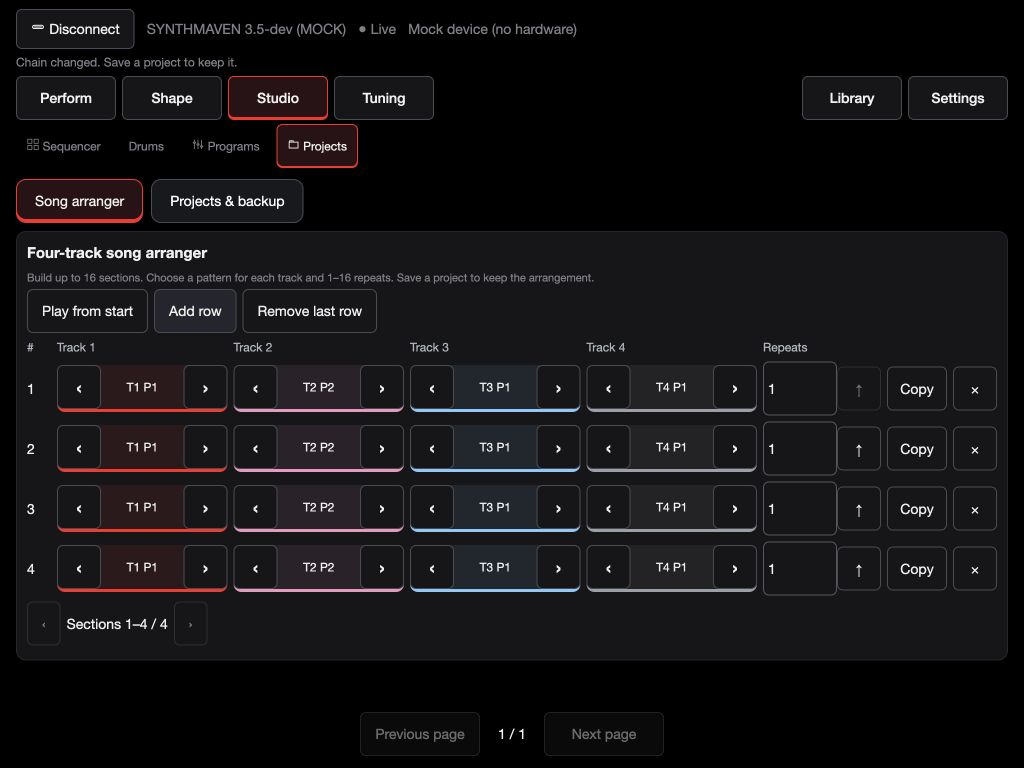
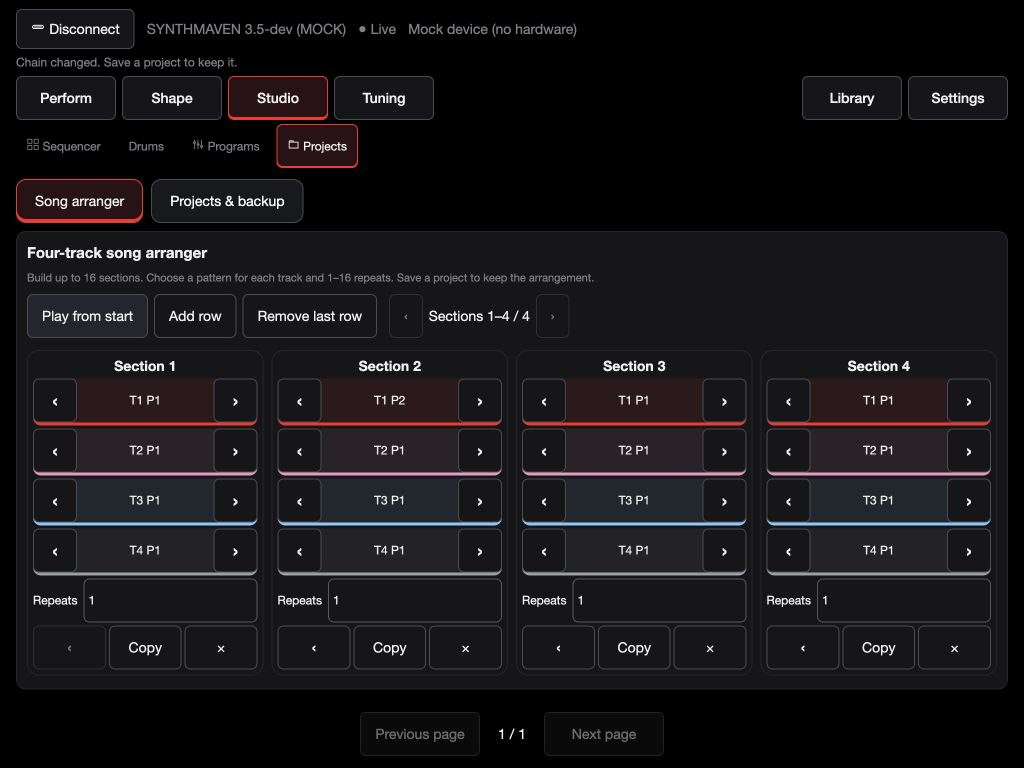
Expose four melodic lanes and song timeline in both editors

Changed region(s): [[0.0, 0.375, 1.0, 0.9062], [0.0312, 0.375, 0.2188, 0.4688], [0.4062, 0.4062, 0.5312, 0.4688]]

diff --git a/web/editor.html b/web/editor.html
@@ -468,6 +468,37 @@ body[data-screen=tracks] #trackbar{display:none}.strip input.fader{height:110px}
 .song-track-2{border-color:#f1a0c8;background:#f1a0c818}.song-track-3{border-color:#93cffa;background:#93cffa18}.song-track-4{border-color:#a5a9b2;background:#a5a9b218}
 .song-track select{min-width:0;width:100%;padding:4px;border:0;background:transparent;pointer-events:none;appearance:none;text-align:center}
 .song-track .cycle-choice{width:100%;min-width:0;grid-template-columns:44px minmax(0,1fr) 44px}.song-track .cycle-choice output{padding:2px;font-size:12px}.song-track button{min-width:44px;padding:4px}.song-section button,.song-section input{min-height:44px;padding:4px}.song-active{outline:2px solid #fff;border-radius:8px}.song-heading{font-size:12px;color:#b9bdc6}
+
+/* Four melodic lanes and a left-to-right song timeline. */
+#stepgrid{display:flex;flex-direction:column;gap:5px}
+.sequence-lane{display:grid;grid-template-columns:84px repeat(8,minmax(0,1fr));gap:5px;--part:255,44,52}
+.sequence-lane.song-track-2{--part:230,140,175}.sequence-lane.song-track-3{--part:158,211,240}.sequence-lane.song-track-4{--part:164,170,180}
+#stepgrid .sequence-lane button{min-height:44px;padding:3px;display:flex;flex-direction:column;gap:0;font-size:12px}
+#stepgrid .sequence-lane button.on{background:rgba(var(--part),.24);border-color:rgb(var(--part))}
+#stepgrid .sequence-pages{margin:0;justify-content:flex-end}#stepgrid .sequence-pages button{min-height:44px}
+#steptables tr[data-i]:not([hidden]){grid-template-columns:32px 2fr 1fr 48px 48px 1fr 1fr;gap:8px}
+.sequence-notes{display:grid;grid-template-columns:repeat(4,minmax(0,1fr));gap:3px}
+#steps #steptables .sequence-notes select{min-width:0;padding:2px;font-size:13px}
+#songrows{display:grid;grid-template-columns:repeat(4,minmax(0,1fr));gap:8px}
+#songrows .song-section{display:grid;grid-template-columns:repeat(3,minmax(0,1fr));gap:5px;background:var(--surface,#16161a);border:1px solid var(--line);border-radius:12px;padding:8px}
+#songrows .song-section>span,#songrows .song-track,#songrows .song-section>input{grid-column:1/-1;width:100%!important;box-sizing:border-box}
+#songrows .song-section>span{text-align:center;font-weight:600}
+#songchain>.song-heading{display:none}
+#songrows .song-track{min-height:44px}
+#songrows .song-section>input{max-height:44px}
+
+body[data-screen=sequencer] #trackbar{display:none}
+#p-sequencer{position:relative}#seq-workflow{padding-right:210px;min-height:44px;margin-bottom:8px}
+#patternbar{position:absolute;right:0;top:0;width:200px;display:flex;align-items:center;gap:5px;margin:0}
+#patternbar .cycle-choice{width:150px}#patternstate{display:none}
+#stepgrid .sequence-lane button{height:44px;min-height:44px;box-sizing:border-box}
+#steptables td::before{min-height:16px}#steps{padding:8px}#steps>.bar{margin:0 0 5px}#steps>h2{display:none}
+#stepgrid .sequence-pages button{width:44px;min-width:44px}
+#patternbar label{display:contents}#patternbar{flex-wrap:nowrap!important}#patternbar .cycle-choice{display:grid}
+#stepgrid .sequence-lane>button:first-child{border-left:4px solid rgb(var(--part));background:rgba(var(--part),.14)}
+#songchain{padding:8px}#songchain>p{margin:5px 0}#songrows .song-section{margin:3px 0;padding:5px;gap:3px}#songpages{margin:4px 0 0}
+#songrows .song-section>label{grid-column:1/-1;display:flex;align-items:center;gap:6px;font-size:12px}#songrows .song-section>label input{min-width:0;width:100%!important;box-sizing:border-box}
+#songpages{margin:0 0 0 auto}#songchain>.bar{margin:5px 0}#songchain .song-section>button:first-of-type{font-size:18px}
 </style>
 </head>
 <body>
@@ -693,9 +724,9 @@ body[data-screen=tracks] #trackbar{display:none}.strip input.fader{height:110px}
     <div class="group" id="songchain" hidden style="margin-top:16px">
       <h2>Four-track song arranger</h2>
       <p class="dim">Build up to 16 sections. Choose a pattern for each track and 1–16 repeats. Save a project to keep the arrangement.</p>
-      <p class="bar"><button id="songplay"></button><button id="songadd" data-t="songAdd"></button>
-        <button id="songremove" data-t="songRemove"></button><span id="songstatus" aria-live="polite"></span></p>
-      <div class="song-section song-heading"><span>#</span><span>Track 1</span><span>Track 2</span><span>Track 3</span><span>Track 4</span><span>Repeats</span><span></span><span></span><span></span></div><div id="songrows"></div><nav id="songpages" class="bar" aria-label="Song section pages"></nav>
+      <div class="bar"><button id="songplay"></button><button id="songadd" data-t="songAdd"></button>
+        <button id="songremove" data-t="songRemove"></button><span id="songstatus" aria-live="polite"></span><nav id="songpages" class="bar" aria-label="Song section pages"></nav></div>
+      <div class="song-section song-heading"><span>#</span><span>Track 1</span><span>Track 2</span><span>Track 3</span><span>Track 4</span><span>Repeats</span><span></span><span></span><span></span></div><div id="songrows"></div>
     </div>
   </section>
 
@@ -4154,6 +4185,13 @@ async function loadSteps(d = dev) {
     if (i % 8 === 0) sayK("steploading", `${i}/${n}`);
     d.steps[i] = await getStep(i, d);
   }
+  d.sequenceTracks = [];
+  for (let track=0;track<(d.info.ntrk||1);track++) {
+    if(track===(d.sel||0)){d.sequenceTracks[track]=d.steps;continue;}
+    const steps=[];
+    for(let i=0;i<n;i++)steps.push(parse[CMD.TRACK_STEP](await sessionRequest(d,req.trackStep(track,i))));
+    d.sequenceTracks[track]=steps;
+  }
   renderSteps();
   if (d.info.motionMax) await readMotion(d);
 }
@@ -4666,9 +4704,12 @@ function renderSong() {
     }
     const reps = el("input", { type: "number", min: 1, max: 16, value: r.repeat, disabled: !!s.playing, style: "width:64px", "aria-label": `${t("songReps")} ${i + 1}` });
     reps.addEventListener("change", () => { const v = +reps.value; if (!Number.isInteger(v) || v < 1 || v > 16) { reps.value = r.repeat; return; } const next = s.rows.map((x) => ({ ...x })); next[i].repeat = v; op(() => changeSong(1, next)); });
-    line.append(...picks, reps);
+    line.append(...picks, el("label", {}, "Repeats", reps));
     const edit = (kind) => { const next=s.rows.map(x=>({...x,...(x.banks?{banks:[...x.banks]}:{})})); if(kind==='copy')next.splice(i+1,0,{...next[i],...(next[i].banks?{banks:[...next[i].banks]}:{})}); else if(kind==='delete')next.splice(i,1); else [next[i],next[i-1]]=[next[i-1],next[i]];op(()=>changeSong(1,next)); };
-    line.append(el("button",{text:"↑","aria-label":`Move section ${i+1} up`,disabled:!!s.playing||i===0,onclick:()=>edit('up')}),el("button",{text:"Copy","aria-label":`Duplicate section ${i+1}`,disabled:!!s.playing||s.rows.length>=16,onclick:()=>edit('copy')}),el("button",{text:"×","aria-label":`Delete section ${i+1}`,disabled:!!s.playing,onclick:()=>edit('delete')}));
+    line.append(el("button",{text:"‹","aria-label":`Move section ${i+1} up`,disabled:!!s.playing||i===0,onclick:()=>edit('up')}),el("button",{text:"Copy","aria-label":`Duplicate section ${i+1}`,disabled:!!s.playing||s.rows.length>=16,onclick:()=>edit('copy')}),el("button",{text:"×","aria-label":`Delete section ${i+1}`,disabled:!!s.playing,onclick:()=>edit('delete')}));
+    const column=i-songPage*pageSize+1;
+    line.style.gridColumn=String(column);
+    line.firstElementChild.textContent=`Section ${i+1}`;
     rows.append(line);
   });
 }
@@ -4779,7 +4820,7 @@ setInterval(async () => {
 }, 1500);
 
 /* ---------------------------------------------------------- steps --- */
-let selectedSeqStep=0;
+let selectedSeqStep=0, sequencePage=0;
 $('p-sequencer').dataset.seqView='steps';
 for(const button of $('seq-workflow').children)button.onclick=()=>{const view=button.dataset.seqView;$('p-sequencer').dataset.seqView=view;for(const b of $('seq-workflow').children)b.setAttribute('aria-pressed',String(b===button));};
 const TIMES = ["NOTE", "TIE", "REST"];
@@ -4801,7 +4842,7 @@ function renderSteps() {
   box.dataset.len = shape;
   const tables = [];
   for (let b = 0; b < len; b += 16) {
-    const tb = el("table", {}, el("tr", {}, el("th"), el("th", { text: t("notes") }), el("th", { text: t("hits") }), el("th", { text: t("time") }),
+    const tb = el("table", {}, el("tr", {}, el("th"), el("th", { text: t("notes") }), el("th", { text: t("time") }),
       el("th", { text: t("acc") }), el("th", { text: t("slide") }), el("th", { text: t("vel") }), ...(dev.info.chance ? [el("th", { text: t("chance") })] : [])));
     for (let i = b; i < Math.min(len, b + 16); i++) {const row=stepRow(i);row.hidden=i!==selectedSeqStep;tb.append(row);}
     tb.hidden=selectedSeqStep<b||selectedSeqStep>=b+16;
@@ -4810,7 +4851,12 @@ function renderSteps() {
   box.replaceChildren(...tables);
 }
 function stepRow(i) {
-  const notes = el("input", { type: "text", placeholder: "—", spellcheck: "false" });
+  const notes = el("div", {class:"sequence-notes"});
+  for(let slot=0;slot<4;slot++){
+    const pick=el('select',{'aria-label':`Note ${slot+1} for step ${i+1}`,'data-native-select':'true'},el('option',{value:'',text:'—'}));
+    for(let midi=21;midi<=108;midi++)pick.append(el('option',{value:midi,text:noteName(midi)}));
+    notes.append(pick);
+  }
   const hits = el("input", { type: "text", placeholder: "—", spellcheck: "false", class: "hits" });
   const time = el("select", {}, ...TIMES.map((n, k) => el("option", { value: k, text: n })));
   const acc = el("input", { type: "checkbox" });
@@ -4818,8 +4864,8 @@ function stepRow(i) {
   const vel = el("input", { type: "number", min: 0, max: 127 });
   const chance = dev.info.chance ? el("input", { type: "number", min: 0, max: 100, "aria-label": `${t("chance")} ${i + 1}` }) : null;
   const tr = el("tr", { "data-i": i }, el("td", { class: "i", text: String(i + 1) }),
-    el("td", {}, notes), el("td", {}, hits), el("td", {}, time), el("td", {}, acc), el("td", {}, sl), el("td", {}, vel), ...(chance ? [el("td", {}, chance)] : []));
-  [...tr.children].forEach((cell,index)=>{const label=['Step','Notes','Drum hits','Length','Accent','Slide','Velocity','Chance'][index];cell.dataset.label=label;const control=cell.firstElementChild;if(control)control.setAttribute('aria-label',label+' for step '+(i+1));});
+    el("td", {}, notes), el("td", {}, time), el("td", {}, acc), el("td", {}, sl), el("td", {}, vel), ...(chance ? [el("td", {}, chance)] : []));
+  [...tr.children].forEach((cell,index)=>{const label=['Step','Notes · A0–C8','Length','Accent','Slide','Velocity','Chance'][index];cell.dataset.label=label;const control=cell.firstElementChild;if(control)control.setAttribute('aria-label',label+' for step '+(i+1));});
   tr._c = { notes, hits, time, acc, sl, vel, chance };
   fillStep(tr, dev.steps[i]);
   const send = () => writeStep(i, tr);
@@ -4835,7 +4881,12 @@ function stepRow(i) {
 function fillStep(tr, s) {
   const c = tr._c;
   if (!s) return;
-  c.notes.value = stepNotes(s);
+  [...c.notes.children].forEach((pick,index)=>{
+    const value=index<s.n?s.notes[index]:null;
+    // Keep imported out-of-piano-range notes intact until explicitly changed.
+    if(value!==null&&!Array.from(pick.options).some(o=>o.value===String(value)))pick.append(el('option',{value,text:noteName(value)}));
+    pick.value=value===null?'':String(value);
+  });
   c.notes.classList.remove("bad");
   c.hits.value = hitsText(s.hit | 0, s.acc | 0);
   c.hits.classList.remove("bad");
@@ -4855,23 +4906,29 @@ function updateStepRows() {
 }
 /* the step grid: one cell per step up to LEN; a cell jumps to its row in the table */
 function renderGrid() {
-  const box = $("stepgrid");
-  if (!dev || !dev.steps.length) { box.replaceChildren(); return; }
-  const len = stepLen();
-  if (box.children.length !== len) {
-    box.replaceChildren(...Array.from({ length: len }, (_, i) => el("button", { type: "button", "data-i": i, onclick: () => focusStep(i) })));
+  const box=$("stepgrid");if(!dev?.steps.length){box.replaceChildren();return;}
+  const d=dev, count=d.info.ntrk||1, pageSize=8, pages=Math.ceil(d.info.nstep/pageSize);
+  sequencePage=Math.min(sequencePage,pages-1);
+  const tracks=d.sequenceTracks||[];tracks[d.sel||0]=d.steps;
+  box.replaceChildren();
+  for(let track=0;track<count;track++){
+    const lane=el('div',{class:`sequence-lane song-track-${track+1}`});
+    lane.append(el('button',{'aria-pressed':String(track===(d.sel||0)),onclick:()=>selectTrack(track)},`Layer ${track+1}`));
+    for(let i=sequencePage*pageSize;i<Math.min(d.info.nstep,(sequencePage+1)*pageSize);i++){
+      const st=tracks[track]?.[i],on=!!st&&st.time===0&&st.n>0;
+      lane.append(el('button',{class:on?'on':'','aria-label':`Layer ${track+1} step ${i+1}`,'aria-pressed':String(track===(d.sel||0)&&i===selectedSeqStep),onclick:()=>{
+        selectedSeqStep=i;
+        if(track!==(d.sel||0))selectTrack(track);else focusStep(i);
+      }},el('span',{class:'n',text:String(i+1)}),el('span',{class:'x',text:st?st.time===1?'Tie':stepNotes(st)||'—':'…'})));
+    }
+    box.append(lane);
   }
-  for (const b of box.children) {
-    const i = +b.dataset.i, s = dev.steps[i];
-    const on = stepOn(s), tie = !!s && s.time === 1;
-    const txt = on ? [stepNotes(s), hitsText(s.hit | 0, s.acc | 0)].filter(Boolean).join(" ") : tie ? "—" : "";
-    const marks = s && on ? (s.flags & 1 ? " >" : "") + (s.flags & 2 ? " ~" : "") : "";
-    b.className = [on && "on", tie && "tie", on && s.flags & 1 && "acc", i % 4 === 0 && "beat"].filter(Boolean).join(" ");
-    b.setAttribute("aria-pressed",String(i===selectedSeqStep));
-    b.title = `${i + 1}: ${on ? txt : tie ? "TIE" : "REST"}${marks}`;
-    b.replaceChildren(el("span", { class: "n", text: String(i + 1) + marks }), el("span", { class: "x", text: txt }));
-  }
+  box.append(el('nav',{class:'bar sequence-pages'},
+    el('button',{'aria-label':'Previous steps',disabled:sequencePage===0,onclick:()=>{sequencePage--;renderGrid();}},'‹'),
+    el('span',{text:`Steps ${sequencePage*pageSize+1}–${Math.min(d.info.nstep,(sequencePage+1)*pageSize)}`}),
+    el('button',{'aria-label':'Next steps',disabled:sequencePage===pages-1,onclick:()=>{sequencePage++;renderGrid();}},'›')));
 }
+
 function focusStep(i) {
   const tr = $("steptables").querySelector(`tr[data-i="${i}"]`);
   if (!tr) return;
@@ -4883,11 +4940,12 @@ function focusStep(i) {
 }
 async function writeStep(i, tr) {
   const c = tr._c;
-  const notes = parseNotes(c.notes.value), hits = parseHits(c.hits.value);
+  const notes = [...c.notes.children].filter(p=>p.value!=='').map(p=>+p.value), hits = {hit:dev.steps[i].hit||0,acc:dev.steps[i].acc||0};
   c.notes.classList.toggle("bad", !notes);
   c.hits.classList.toggle("bad", !hits);
   if (!notes || !hits) return;
-  const old = dev.steps[i];
+  const d=dev, track=d.sel||0;
+  const old = d.steps[i];
   const all = notes.concat(old.notes.slice(notes.length)).slice(0, 4);
   let time = +c.time.value;
   if ((notes.length || hits.hit) && !old.n && !old.hit && time === 2) time = 0;   /* typing notes / hits into an empty step makes it play */
@@ -4897,8 +4955,10 @@ async function writeStep(i, tr) {
   if ((s.n || s.hit) && !s.vel) s.vel = 96;
   stepEdit.set(i, performance.now());
   try {
-    dev.steps[i] = parse[CMD.STEP_SET](await rq(req.stepSet(i, s)));
-    if (!tr.contains(document.activeElement) || document.activeElement === c.notes) fillStep(tr, dev.steps[i]);
+    const updated=parse[CMD.TRACK_STEP](await sessionRequest(d,req.trackStep(track,i,s)));
+    assertSession(d);
+    if(d.sequenceTracks?.[track])d.sequenceTracks[track][i]=updated;
+    if((d.sel||0)===track){d.steps[i]=updated;fillStep(tr,updated);renderGrid();}
   } catch (err) { report(err); }
 }
 $("reloadsteps").addEventListener("click", async () => {

diff --git a/web/manual/index.html b/web/manual/index.html
@@ -1010,5 +1010,5 @@
     if (el) obs.observe(el);
   }
 </script>
-<section id="four-track-arranger"><h2>Four-track groovebox song arranger</h2><figure class="shot"><img src="editor-arranger.png" alt="Four-track song arranger with four section rows" width="1024" height="768"/><figcaption>Studio → Projects → Song arranger. Shared web and iPad controls.</figcaption></figure><ol><li>Create patterns for tracks 1–4 in the Sequencer.</li><li>Open Song arranger and Add row. Use each track’s side arrows to choose pattern 1–8.</li><li>Set section repeats from 1–16. Add up to 16 sections; use Copy, Up and Delete to arrange them.</li><li>Use the section arrows to view four sections per page. Navigation does not change the song.</li><li>Choose Play from start to play on the FM-1; Stop before editing the section order.</li><li>Open Projects &amp; backup and save project A–D to keep the arrangement. Export a full backup for safekeeping.</li></ol><p>If connecting previously showed “Invalid favorites reply,” refresh the editor. The corrected handshake recognizes the firmware’s shortened MIDI-engine name and does not let unsupported optional favorites block editing.</p></section></body>
+<section id="melodic-sequencer"><h2>Four-layer melodic sequencer</h2><img src="editor-melodic-sequencer.png" alt="Four melodic layer lanes and selectable piano notes"/><ol><li>Open Studio → Sequencer. The four lanes correspond to program layers 1–4.</li><li>Tap a step in a lane, then choose its pattern. Choose up to four notes using the A0–C8 selectors; a dash leaves a note slot empty.</li><li>Set NOTE, TIE or REST, velocity, chance, accent and slide. Use step arrows to view eight steps at a time.</li><li>Repeat for the other layers. Use Drums for independent drum patterns.</li><li>Open Projects → Song arranger. Read sections left to right, choose each layer’s pattern and repeats, and use Copy, Move earlier and Delete to arrange the song.</li><li>Play on the FM-1, then save the project to preserve patterns and arrangement.</li></ol></section><section id="four-track-arranger"><h2>Four-track groovebox song arranger</h2><figure class="shot"><img src="editor-arranger.png" alt="Four-track song arranger with four section rows" width="1024" height="768"/><figcaption>Studio → Projects → Song arranger. Shared web and iPad controls.</figcaption></figure><ol><li>Create patterns for tracks 1–4 in the Sequencer.</li><li>Open Song arranger and Add row. Use each track’s side arrows to choose pattern 1–8.</li><li>Set section repeats from 1–16. Add up to 16 sections; use Copy, Move earlier and Delete to arrange them.</li><li>Use the section arrows to view four sections per page. Navigation does not change the song.</li><li>Choose Play from start to play on the FM-1; Stop before editing the section order.</li><li>Open Projects &amp; backup and save project A–D to keep the arrangement. Export a full backup for safekeeping.</li></ol><p>If connecting previously showed “Invalid favorites reply,” refresh the editor. The corrected handshake recognizes the firmware’s shortened MIDI-engine name and does not let unsupported optional favorites block editing.</p></section></body>
 </html>

diff --git a/web/editor-choice-controls.js b/web/editor-choice-controls.js
@@ -13,7 +13,7 @@
   c.prev.setAttribute('aria-label','Previous '+label);c.next.setAttribute('aria-label','Next '+label);c.output.setAttribute('aria-label',label+': '+text);
  }
  function decorate(select){
-  if(choices.has(select)||['engine','preset'].includes(select.id)||select.multiple)return;
+  if(select.dataset.nativeSelect==='true'||choices.has(select)||['engine','preset'].includes(select.id)||select.multiple)return;
   const box=document.createElement('span');box.className='cycle-choice';const prev=document.createElement('button'),next=document.createElement('button'),output=document.createElement('output');prev.type=next.type='button';prev.textContent='‹';next.textContent='›';output.setAttribute('aria-live','polite');
   select.classList.add('cycle-source');select.tabIndex=-1;select.before(box);box.append(prev,select,output,next);
   const c={box,prev,next,output};choices.set(select,c);

diff --git a/tools/make_synthmaven_guide.py b/tools/make_synthmaven_guide.py
@@ -44,8 +44,10 @@ def pages():
   title=heading.get_text(' ',strip=True);fig=heading.find_next_sibling('figure');ol=fig.find_next_sibling('ol')
   steps=[li.get_text(' ',strip=True) for li in ol.find_all('li',recursive=False)]
   out.append(extra('Editor / '+title,'web/manual/'+fig.img['src'],[('Controls and workflow',x) for x in steps],['Connect the real FM-1 in COMPUTER USB role. Mock mode changes demonstration data only.','Choose the part and screen before editing. Touch arrows cycle choices; card tabs reveal the remaining controls.','Save the sound/program/project as appropriate; a browser library copy is separate.'],section='Web and iPad editor',opening='Open the matching editor page shown below.'))
+ out.append(extra('Editor / Four-layer melodic sequencer','assets/manual/editor-melodic-sequencer.png',[
+ ('Four lanes','Each visible lane belongs to the matching program layer. Tap a step to select its layer and edit that step. The selected lane and step have an outline.'),('Steps','Eight steps are visible at a time. Previous/next step arrows expose the remaining steps without changing the pattern.'),('Notes A0-C8','Choose from all 88 piano notes in each of four note selectors. Use the dash for an empty chord slot. Notes are selectable, not free text.'),('Length / Accent / Slide','NOTE triggers the selected pitches, TIE connects steps, REST leaves silence. Accent and slide retain the firmware behavior.'),('Velocity / Chance','Velocity sets note strength, from 0 to 127. Chance sets probability from 0 to 100 percent.'),('Pattern / Play / Save','Choose one of eight patterns for the selected layer. Play runs on the connected FM-1. Save the project to retain patterns and arrangement.')],['Select a layer and a pattern. Tap a step and choose one or more notes.','Set note length, velocity, chance, accent and slide as needed; repeat for other layers.','Open Projects > Song arranger, arrange the patterns, then save the project. Use Drums for independent drum patterns.'],section='Web and iPad editor',opening='Studio > Sequencer > Steps.'))
  out.append(extra('Editor / Four-track song arranger','assets/manual/editor-arranger.png',[
- ('Track 1-4 patterns','Each section selects one of eight patterns independently for each track. Side arrows cycle the pattern number; track colors identify the four parts.'),('Repeats','Play this section 1-16 times before moving to the next. A song contains up to 16 ordered sections.'),('Add / Copy / Up / Delete','Add a section, duplicate a section, move it earlier or remove it. Structural edits are disabled while the song is playing.'),('Section pages','Previous/next arrows show four sections at a time. They change only the view, never the order or sound.'),('Play from start / Stop','Play the arrangement on the connected FM-1. The current section and remaining repeats are reported by the device.'),('Projects & backup','Save the current project in A-D to retain the arrangement, then export a backup. Patterns must already contain notes/hits to produce sound.')],['Create patterns in Studio > Sequencer for each of the four tracks.','Open Studio > Projects > Song arranger; add sections and choose four patterns and repeats for each.','Play from start, stop to edit, then use Projects & backup to save.'],section='Web and iPad editor',opening='Studio > Projects > Song arranger.'))
+ ('Timeline','Read sections from left to right. Each column contains four color-coded layer patterns, a repeat count and reorder/copy/delete controls.'),('Track 1-4 patterns','Each section selects one of eight patterns independently for each track. Side arrows cycle the pattern number; track colors identify the four parts.'),('Repeats','Play this section 1-16 times before moving to the next. A song contains up to 16 ordered sections.'),('Add / Copy / Move earlier / Delete','Add a section, duplicate a section, move it earlier or remove it. Structural edits are disabled while the song is playing.'),('Section pages','Previous/next arrows show four sections at a time. They change only the view, never the order or sound.'),('Play from start / Stop','Play the arrangement on the connected FM-1. The current section and remaining repeats are reported by the device.'),('Projects & backup','Save the current project in A-D to retain the arrangement, then export a backup. Patterns must already contain melodic notes to produce sound; independent drums are edited on the Drums page.')],['Create patterns in Studio > Sequencer for each of the four tracks.','Open Studio > Projects > Song arranger; add sections and choose four patterns and repeats for each.','Play from start, stop to edit, then use Projects & backup to save.'],section='Web and iPad editor',opening='Studio > Projects > Song arranger.'))
  return out
 
 def main():

diff --git a/ios/generate_project.py b/ios/generate_project.py
@@ -20,7 +20,7 @@ resourcephase=add('Resources',f'isa = PBXResourcesBuildPhase; buildActionMask = 
 frameworkphase=add('Frameworks','isa = PBXFrameworksBuildPhase; buildActionMask = 2147483647; files = (); runOnlyForDeploymentPostprocessing = 0;')
 configs=[];pconfigs=[]
 for config in ['Debug','Release']:
- settings='SWIFT_VERSION = 5.0; IPHONEOS_DEPLOYMENT_TARGET = 16.0; TARGETED_DEVICE_FAMILY = "2"; SDKROOT = iphoneos; SUPPORTED_PLATFORMS = "iphoneos iphonesimulator"; PRODUCT_BUNDLE_IDENTIFIER = com.synthmaven.fm1editor; PRODUCT_NAME = "$(TARGET_NAME)"; INFOPLIST_FILE = SynthMavenEditor/Info.plist; CODE_SIGN_STYLE = Automatic; CURRENT_PROJECT_VERSION = 15; ASSETCATALOG_COMPILER_APPICON_NAME = AppIcon; MARKETING_VERSION = 3.5.2; ENABLE_USER_SCRIPT_SANDBOXING = YES; SWIFT_OPTIMIZATION_LEVEL = '+ ('"-Onone";' if config=='Debug' else '"-O";')
+ settings='SWIFT_VERSION = 5.0; IPHONEOS_DEPLOYMENT_TARGET = 16.0; TARGETED_DEVICE_FAMILY = "2"; SDKROOT = iphoneos; SUPPORTED_PLATFORMS = "iphoneos iphonesimulator"; PRODUCT_BUNDLE_IDENTIFIER = com.synthmaven.fm1editor; PRODUCT_NAME = "$(TARGET_NAME)"; INFOPLIST_FILE = SynthMavenEditor/Info.plist; CODE_SIGN_STYLE = Automatic; CURRENT_PROJECT_VERSION = 16; ASSETCATALOG_COMPILER_APPICON_NAME = AppIcon; MARKETING_VERSION = 3.5.2; ENABLE_USER_SCRIPT_SANDBOXING = YES; SWIFT_OPTIMIZATION_LEVEL = '+ ('"-Onone";' if config=='Debug' else '"-O";')
  if config=='Debug': settings+=' SWIFT_ACTIVE_COMPILATION_CONDITIONS = DEBUG;'
  configs.append(add('target'+config,f'isa = XCBuildConfiguration; name = {config}; buildSettings = {{{settings}}};'))
  pconfigs.append(add('project'+config,f'isa = XCBuildConfiguration; name = {config}; buildSettings = {{ CLANG_ENABLE_MODULES = YES; }};'))

diff --git a/docs/RELEASE_3.5.2.md b/docs/RELEASE_3.5.2.md
@@ -24,3 +24,10 @@ The installed candidate passed the iPad USB read-and-edit test, confirmed by the
 This is not a new audio-quality or sustained-performance certification. Four parts and independent drums share voice/processing resources. Bluetooth remains excluded. USB controller hosting requires suitable external power/adapters and switching away from COMPUTER role.
 
 Download the updated illustrated PDF and SHA256SUMS here or from the live installer. Release firmware is built and attested by the required shared builder. Attribution and licences are included in the licence archive.
+
+## Editor arranger workflow
+
+- Four visible melodic sequencer lanes correspond to the four program layers.
+- Four note selectors per step cover the 88-key piano range (A0–C8); existing imported out-of-range notes remain intact. Drum-pattern controls stay on the independent Drums page.
+- Song sections run left to right, with a separate pattern choice for each layer, repeat counts, duplication, move-earlier and deletion. Both editors share this layout.
+- The illustrated guide includes the melodic sequencer and updated song timeline.
